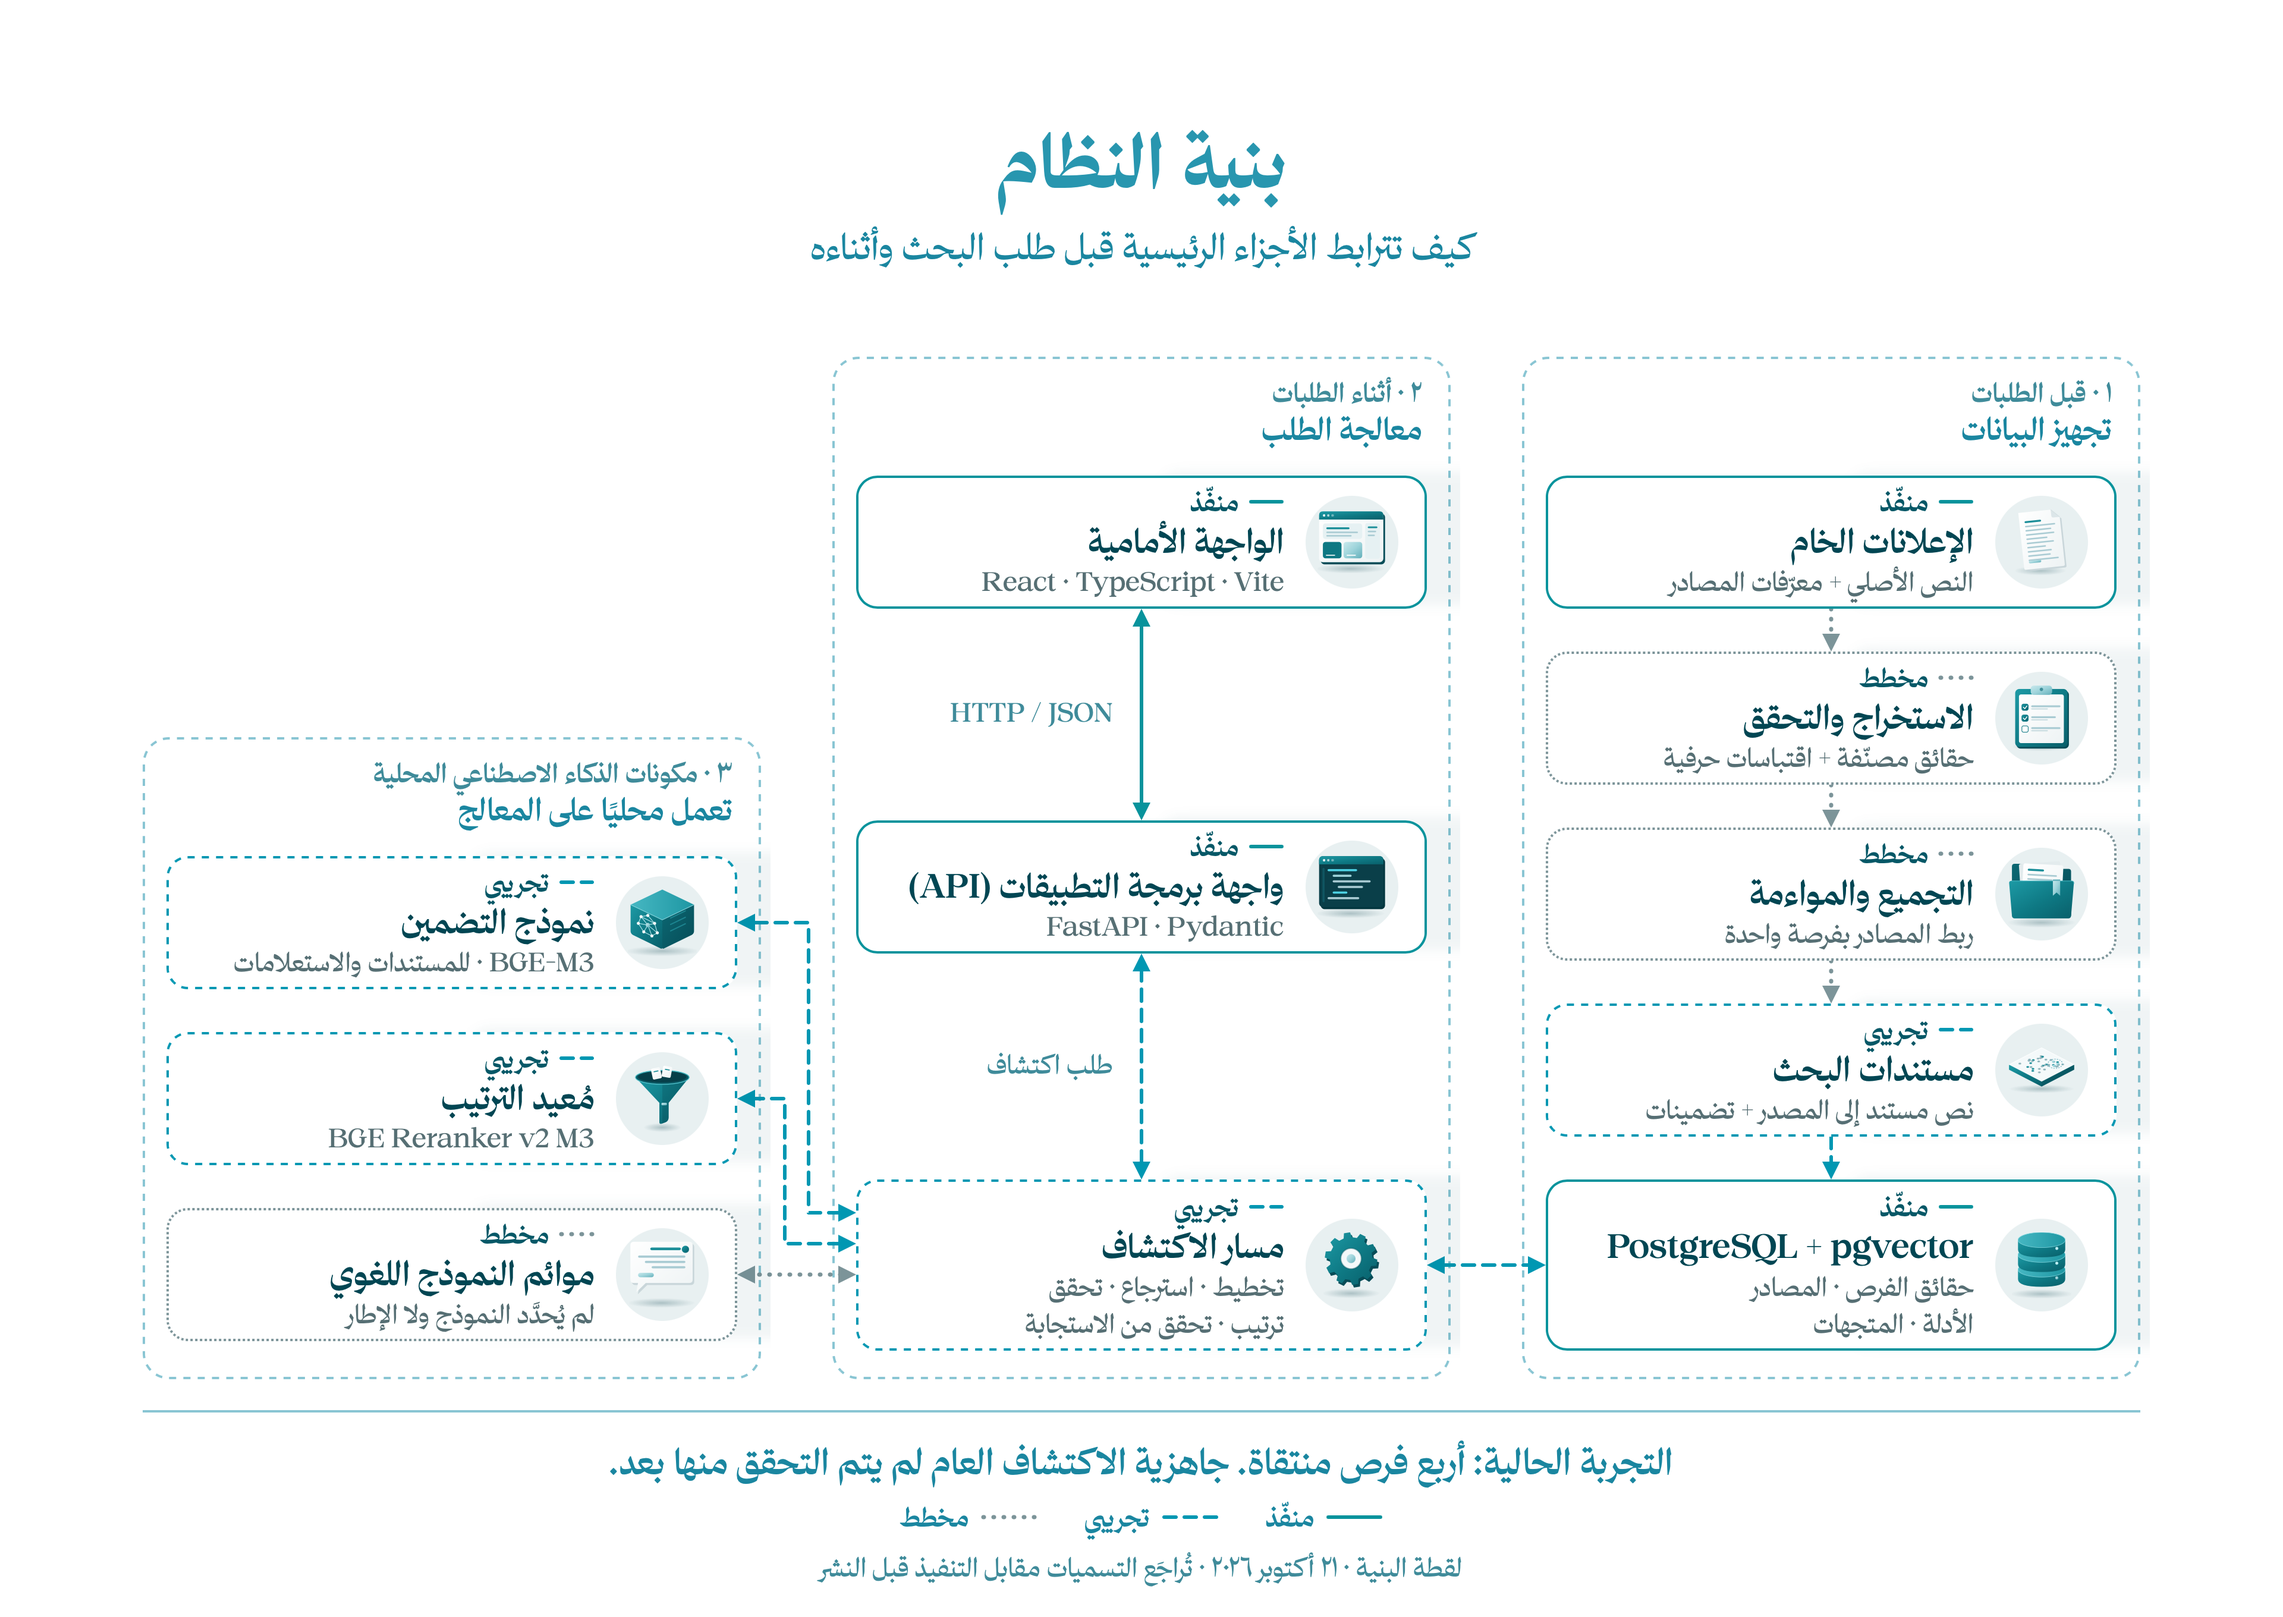
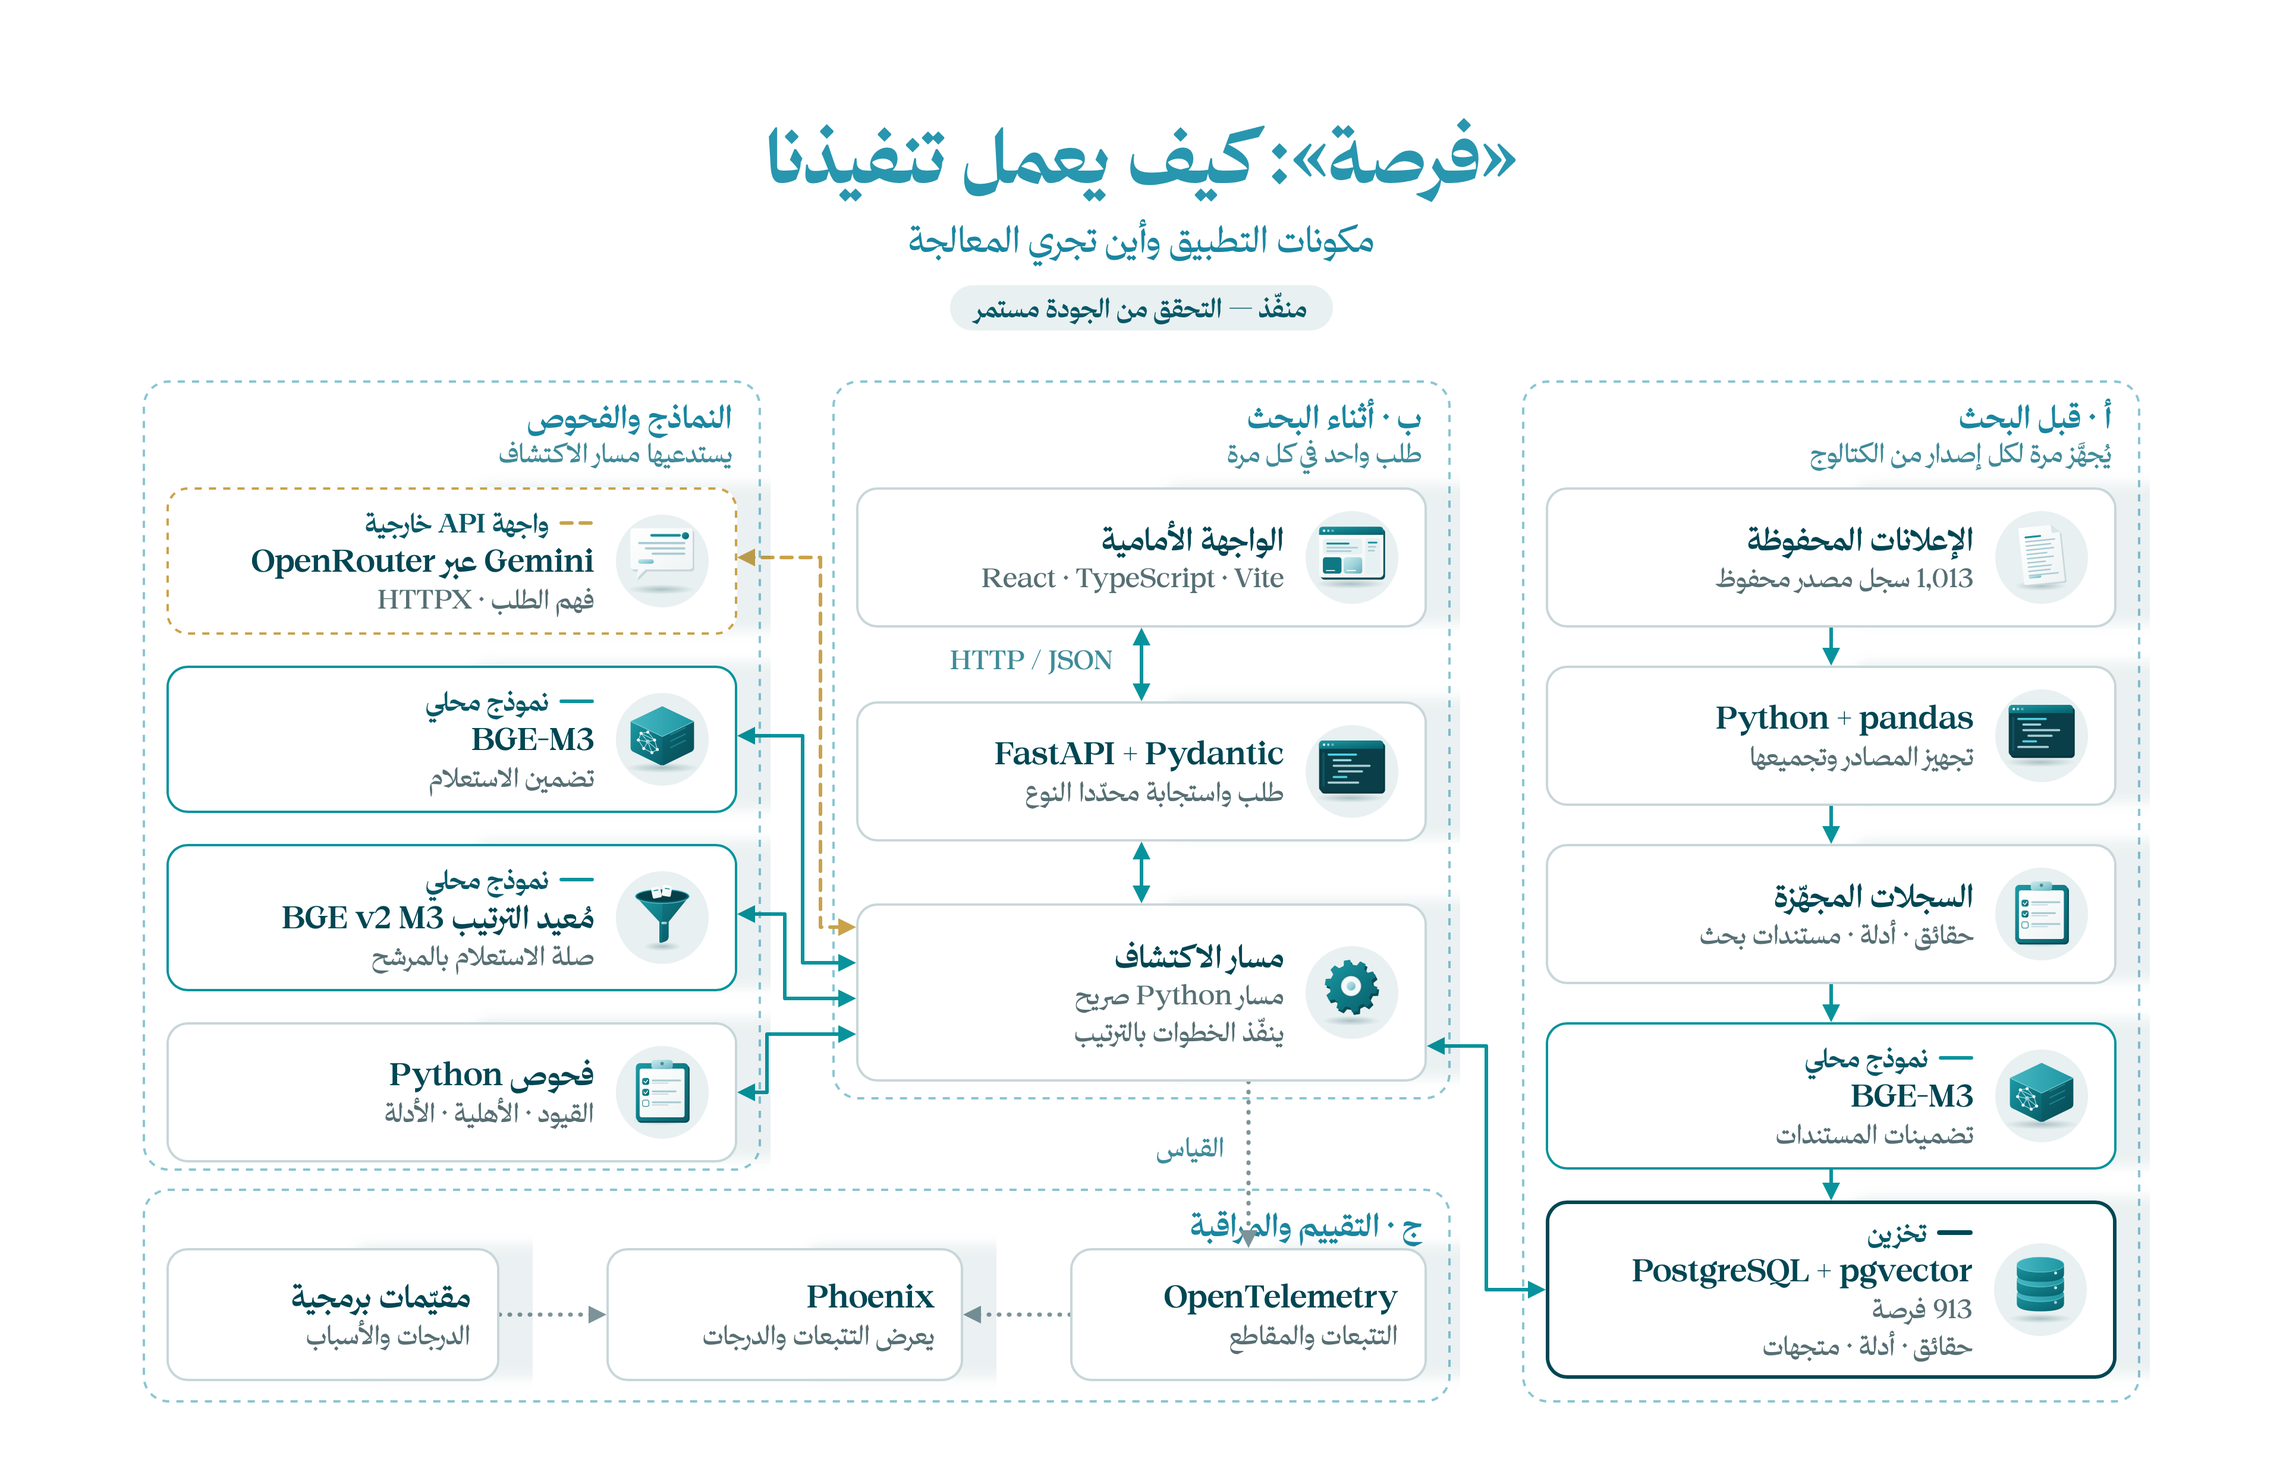
Update FURSAH diagrams for the full-catalog implementation

diff --git a/data/README.ar.md b/data/README.ar.md
@@ -17,9 +17,9 @@
 
 مثلًا: الموعد الأصلي ثم إعلان تمديده يخصان الفرصة نفسها. نحتفظ بالمصدرين ولا نحذف التحديث باعتباره تكرارًا. الرسوم غير المذكورة تبقى مجهولة ولا تتحول إلى صفر. يعمل هذا التنفيذ على مصادر محفوظة دون جلب مواقع خارجية.
 
-> **التصميم الأولي:** يعرض الرسم التجربة القديمة حين كان الاستخراج والتجميع مخططين. يوجد الآن كود لتجهيز البيانات المقدمة، لكنه لا يضمن صحة استخراج أي إعلان جديد. كشف التقييم معلومات إغلاق لم يلتقطها التجهيز.
+> **توضيح الأعداد:** 900 فرصة مجمّعة + 13 فرصة إضافية محفوظة = 913 فرصة. لا يرسم المخطط مدخل الإضافات منفصلًا. التجهيز منفّذ، لكن التقييم كشف معلومات إغلاق لم يلتقطها.
 
-![التصميم الأولي لتجهيز البيانات](../docs/assets/d2-data-journey-ar.png)
+![تجهيز البيانات ونشر الفهرس](../docs/assets/d2-data-journey-ar.png)
 
 ## الملفات التي تتبّعها
 

diff --git a/data/README.md b/data/README.md
@@ -17,9 +17,9 @@ An announcement is a source, not necessarily a separate opportunity. Our prepara
 
 For example, an original deadline and a later explicit extension belong to the same opportunity. Preserve both sources; do not delete the update as a duplicate. An unstated fee remains unknown, not zero. This implementation prepares saved sources without fetching external websites.
 
-> **Initial design:** the diagram describes the earlier pilot, when extraction/grouping were planned. Preparation code now exists for the supplied dataset; it is not a guarantee of correct extraction for arbitrary announcements. The evaluation found missed closure information.
+> **Reading the counts:** 900 grouped opportunities + 13 saved additions = 913 opportunities. The diagram omits the separate additions input. Preparation is implemented, but evaluation found missed closure information.
 
-![Initial data preparation design](../docs/assets/d2-data-journey-en.png)
+![Data preparation and catalog publication](../docs/assets/d2-data-journey-en.png)
 
 ## Files to follow
 

diff --git a/README.ar.md b/README.ar.md
@@ -14,9 +14,9 @@
 
 يحتوي الفهرس المحفوظ على **913 فرصة**: 900 فرصة جُمّعت من 1,000 إعلان، إضافة إلى 13 فرصة محفوظة. البحث يستخدم هذه البيانات ولا يتصفح مواقع خارجية.
 
-> **التصميم الأولي، 21 أكتوبر 2026:** يعرض الرسم تجربة سابقة بأربع فرص؛ حالات التنفيذ المكتوبة فيه تاريخية. أصبح تجهيز البيانات وربط Gemini موجودين، ويبحث التطبيق في الفهرس الأكبر، لكن اعتماد الجودة ما زال معلقًا.
+> **التنفيذ الحالي:** يفهم Gemini الطلب عبر OpenRouter، وتعمل نماذج BGE واسترجاع الفهرس محليًا. ما زال التحقق من الجودة مستمرًا.
 
-![التصميم الأولي لنظام فرصة](docs/assets/d1-architecture-ar.png)
+![بنية نظام فرصة](docs/assets/d1-architecture-ar.png)
 
 ## الأدوات التي اخترناها
 

diff --git a/README.md b/README.md
@@ -14,9 +14,9 @@ We kept the React interface and public API contract, then added data preparation
 
 The saved catalog contains **913 opportunities**: 900 grouped from 1,000 supplied announcements, plus 13 saved additions. Searches use this catalog; they do not browse external websites.
 
-> **Initial design, 21 October 2026:** the diagram below describes the earlier four-opportunity pilot. Its status labels are historical. Preparation and Gemini integration now exist, and retrieval searches the larger catalog; quality approval is still pending.
+> **Current implementation:** Gemini handles request understanding through OpenRouter; BGE models and catalog retrieval run locally. Quality validation is ongoing.
 
-![Initial FURSAH system design](docs/assets/d1-architecture-en.png)
+![FURSAH system architecture](docs/assets/d1-architecture-en.png)
 
 ## Our tools and choices
 

diff --git a/backend/README.ar.md b/backend/README.ar.md
@@ -20,9 +20,9 @@
 
 يقتبس سبب التوصية نشاطًا من المصدر؛ لا يكتبه استدعاء ثانٍ لنموذج لغوي. التشابه العالي لا يثبت الأهلية.
 
-> **رسم تاريخي:** يعرض تجربة الأربع فرص. يستخدم الكود الحالي Gemini والفهرس المجهّز كاملًا؛ حالات المراحل في الرسم ليست إعلانًا عن الجاهزية الحالية.
+> يلخّص الرسم مسار الفهرس الكامل الحالي. قد يرجع مسار التوضيح قبل الاسترجاع؛ وجود الفحوص لا يضمن جودة التوصيات.
 
-![مسار البحث الأولي](../docs/assets/d3-search-workflow-ar.png)
+![مسار البحث في فرصة](../docs/assets/d3-search-workflow-ar.png)
 
 ## أين تقرأ الكود؟
 

diff --git a/backend/README.md b/backend/README.md
@@ -20,9 +20,9 @@ For **“a free online Excel course”**:
 
 Reasons quote an activity from the source; a second LLM does not write the final explanation. High similarity alone is not proof of eligibility.
 
-> **Historical diagram:** this shows the four-record pilot. The current code uses Gemini and the full prepared catalog. Stage labels below are not current readiness claims.
+> The diagram summarizes the current full-catalog workflow. The clarification path can return before retrieval; outcome checks do not guarantee recommendation quality.
 
-![Initial search workflow](../docs/assets/d3-search-workflow-en.png)
+![FURSAH search workflow](../docs/assets/d3-search-workflow-en.png)
 
 ## Where to read the code
 

diff --git a/evals/README.ar.md b/evals/README.ar.md
@@ -8,6 +8,8 @@
 
 نقيّم مسار البحث الحقيقي، وليس توصيات وهمية. تختبر الحالات فهم الطلب والاسترجاع والقيود وأدلة المصادر. يعرض Phoenix ما حدث، بينما تحدد فحوص الكود نجاح المعايير أو فشلها.
 
+![مسار تقييم فرصة وخط الأساس المسجل](../docs/assets/d4-evaluation-ar.png)
+
 ## شغّل ثم افحص
 
 بعد [إعداد الخلفية](../backend/README.ar.md#setup) ونشر الفهرس، نفّذ من جذر المستودع في PowerShell:

diff --git a/evals/README.md b/evals/README.md
@@ -8,6 +8,8 @@
 
 We evaluate the real discovery workflow, not a mocked recommendation. Cases exercise request understanding, retrieval, constraints and source evidence. Phoenix shows what happened; code graders decide whether the checks passed.
 
+![FURSAH evaluation workflow and recorded baseline](../docs/assets/d4-evaluation-en.png)
+
 ## Run and inspect
 
 After [backend setup](../backend/README.md#setup) and catalog publication, run from the repository root in PowerShell:
